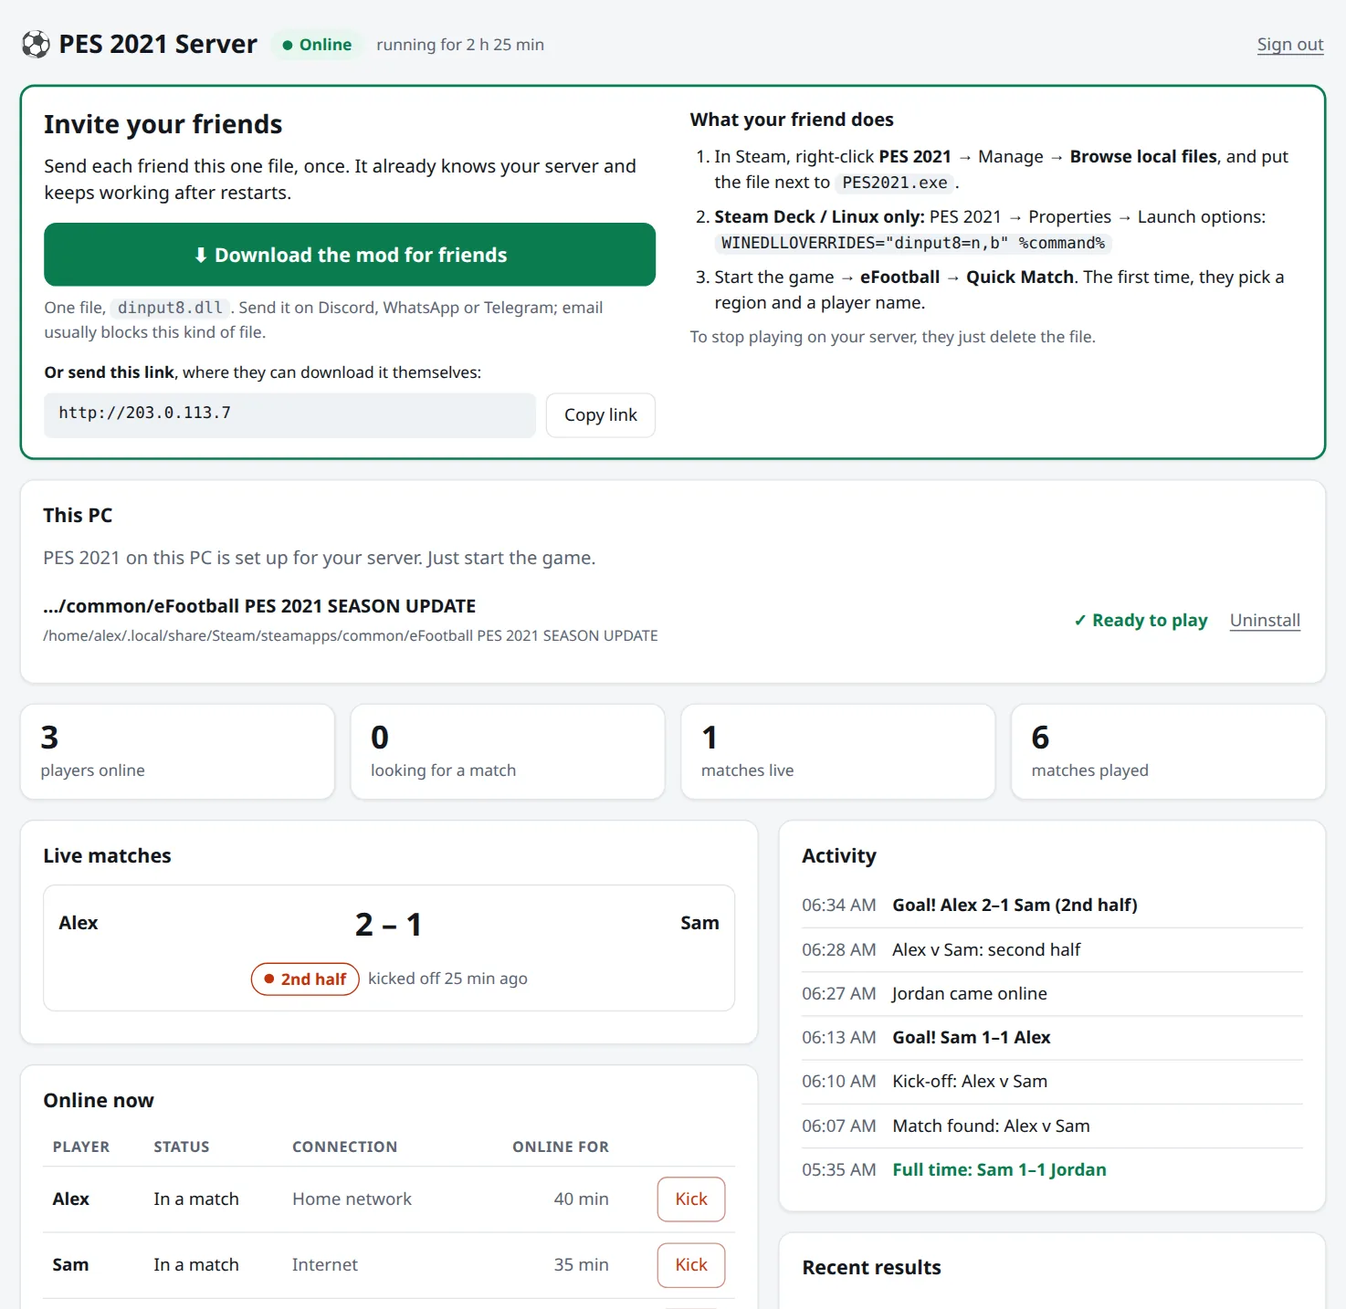
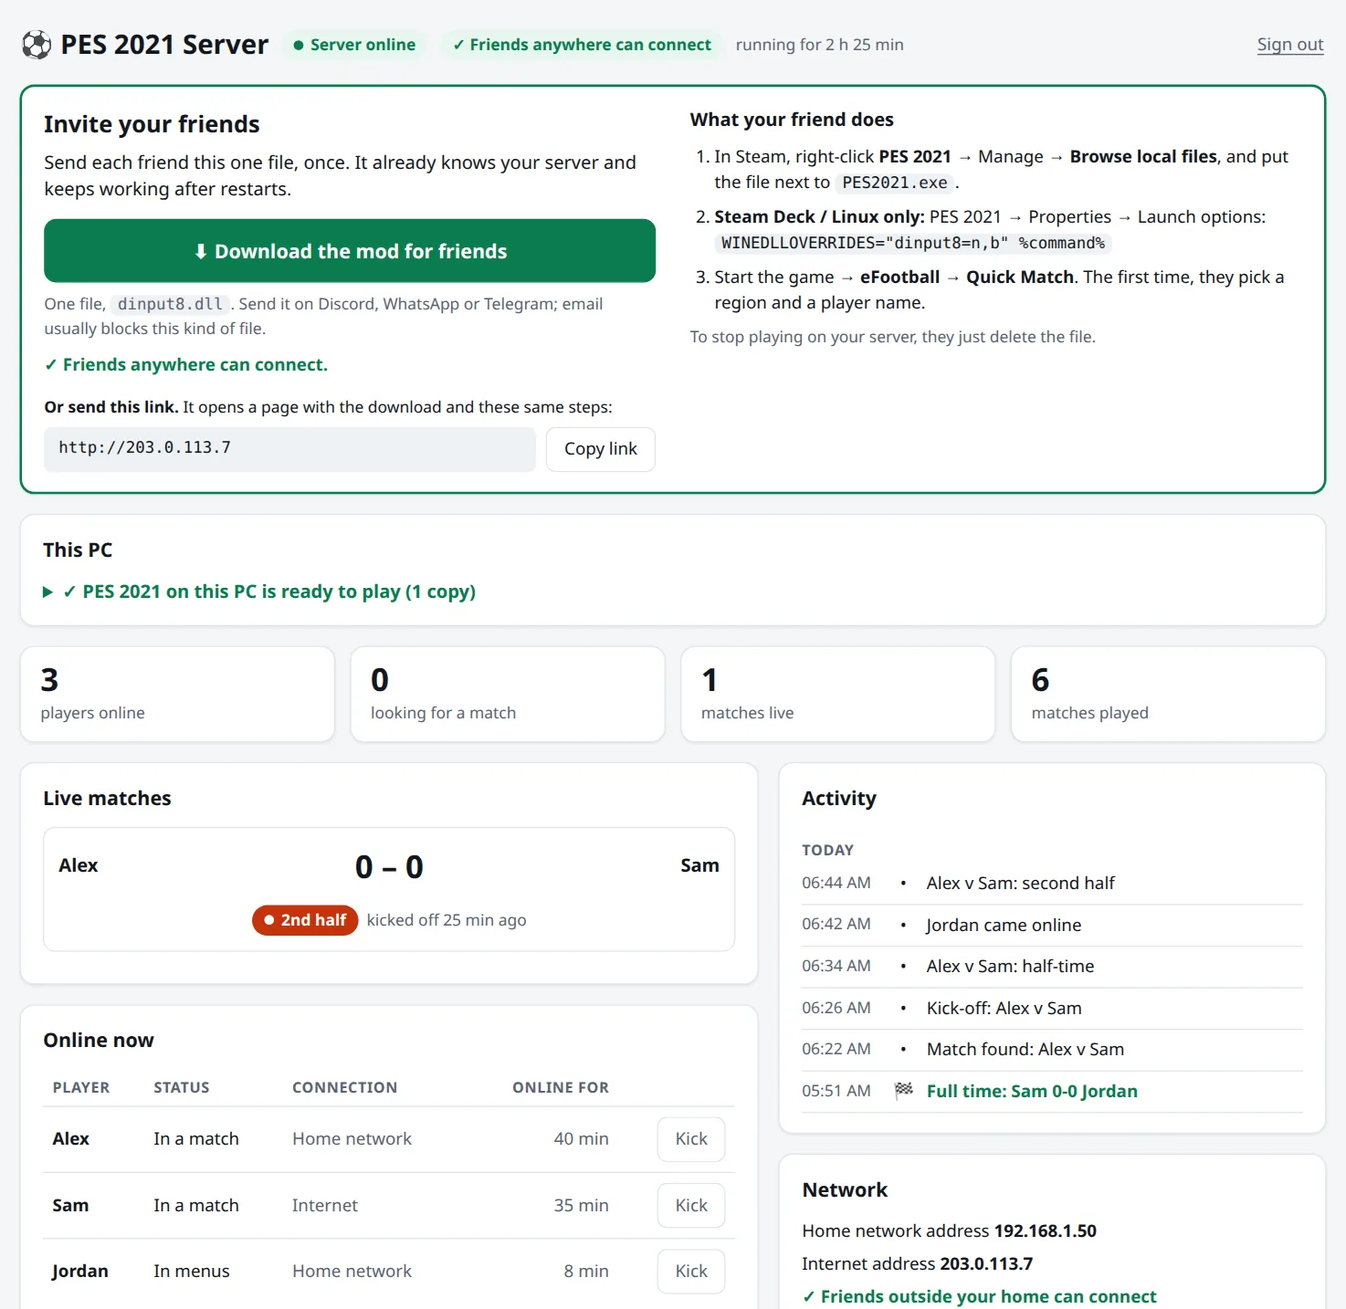
Website round 10: accuracy and onboarding fixes from review (8.3/10)
- Banner image and share preview: no 'free web link'; 'no admin rights for players'
- Admin screenshots without goals (goal tracking not yet seen in a real match)
- Cloud hosting: ADMIN_REMOTE=1 install line and the unencrypted-admin warning; installer
  details say the admin page is home-network only and what the server may write to
- Role links under the hero; send-the-link option; Steam Deck download tip; curl tip; Docker on
  Arch; Uninstall naming; honest chapter 10 test claims; technical page status card and diagram
- Menu fits at 320 px without cutting off; larger tap targets on the technical page

Claude-Session: https://claude.ai/code/session_01W5SLBoQcpZRfLZ5A6DyezJ

diff --git a/docs/index.html b/docs/index.html
@@ -66,7 +66,7 @@ code, pre { font-family: var(--mono); }
 .theme svg { width: 18px; height: 18px; }
 @media (max-width: 640px) { .logo span { display: none; } .nav ul { gap: 12px; } .nav ul a { font-size: 14px; } .nav .wrap { gap: 10px; } }
 @media (max-width: 460px) { .nav .gh { display: none; } .nav ul { gap: 9px; } .nav ul a { font-size: 13px; } }
-@media (max-width: 380px) { .nav ul { gap: 8px; overflow-x: auto; scrollbar-width: none; min-width: 0; } .nav ul::-webkit-scrollbar { display: none; } .logo { flex: none; } .nav .wrap { gap: 8px; padding: 0 14px; } }
+@media (max-width: 380px) { .logo { display: none; } .nav ul { gap: 9px; } .nav ul a { font-size: 12.5px; } .nav .wrap { gap: 8px; padding: 0 12px; } }
 
 /* hero */
 .hero { background: radial-gradient(1200px 500px at 80% -10%, rgba(60,207,142,.25), transparent 60%), linear-gradient(160deg, var(--pitch1), var(--pitch2)); color: #fff; position: relative; overflow: hidden; }
@@ -76,6 +76,9 @@ code, pre { font-family: var(--mono); }
 .hero h1 { font-size: clamp(38px, 6vw, 62px); line-height: 1.04; margin: 0 0 18px; letter-spacing: -.025em; }
 .hero p.lead { font-size: 20px; color: #d3ece0; margin: 0 0 26px; max-width: 34em; }
 .ctas { display: flex; flex-wrap: wrap; gap: 12px; }
+.roles { display: flex; flex-wrap: wrap; gap: 6px 20px; margin: 14px 0 0; font-size: 15px; }
+.roles a { color: #bfe0d1; font-weight: 600; }
+.roles a:hover { color: #fff; }
 .btn { display: inline-flex; align-items: center; gap: 8px; padding: 12px 20px; border-radius: 12px; font-weight: 700; text-decoration: none; font-size: 16px; border: 2px solid transparent; }
 .btn.primary { background: var(--accent); color: #04241a; }
 .btn.primary:hover { background: #63dea6; color: #04241a; }
@@ -255,7 +258,7 @@ details.q { border-bottom: 1px solid var(--line); padding: 4px 0; }
 details.q summary { cursor: pointer; font-weight: 700; font-size: 18px; padding: 14px 0; list-style: none; display: flex; justify-content: space-between; gap: 16px; }
 summary::-webkit-details-marker { display: none; }
 details.q summary::after, details.changes summary::after { content: "+"; color: var(--brand); font-size: 22px; line-height: 1; }
-details.changes summary { list-style: none; display: flex; justify-content: space-between; cursor: pointer; font-weight: 700; }
+details.changes summary { list-style: none; display: flex; justify-content: space-between; gap: 16px; cursor: pointer; font-weight: 700; }
 details[open] > summary::after { content: "–"; }
 details.q p, details.q ul, details.q ol { margin: 0 0 16px; color: var(--muted); max-width: 48em; }
 details.q .cmd { max-width: 48em; margin-bottom: 16px; }
@@ -295,13 +298,14 @@ footer a { color: var(--muted); }
 <header class="hero" id="top">
   <div class="wrap">
     <div>
-      <span class="eyebrow">Free · Open source (MIT) · No admin rights</span>
+      <span class="eyebrow">Free · Open source (MIT) · No admin rights for players</span>
       <h1>PES 2021 is back online.</h1>
       <p class="lead">Konami switched off the online servers for eFootball PES 2021, and every online mode went dark with them. This project brings online Quick Match back: one friend runs a small server, everyone else gets one small file, and you play real online matches again.</p>
       <div class="ctas">
         <a class="btn primary" href="#play">Start playing</a>
         <a class="btn ghost" href="#inside">How it works</a>
       </div>
+      <p class="roles"><a href="#host">I'm hosting →</a><a href="#join">A friend sent me a file →</a></p>
       <a class="pill-status" href="#status"><i aria-hidden="true"></i>Early access: proven on Linux · testers wanted for Windows, Steam Deck and two separate PCs</a>
       <p class="needs">You need: <b>PES 2021 for PC on Steam</b> (v1.01.00) for every player, and <b>one Linux PC or cheap server</b> to host (Windows/Mac hosting should work through Docker Desktop, untested).</p>
       <ul class="facts">
@@ -394,7 +398,7 @@ footer a { color: var(--muted); }
             <li><b>All on Windows, want it easy:</b> a small <a href="#faq-cloud">cloud server</a>, about $5 a month, about 10 minutes.</li>
             <li><b>All on Windows, want it free:</b> <a href="#faq-winhost">Docker Desktop</a> on one PC, about 20 minutes.</li>
           </ul>
-          <p class="small muted">Any 64-bit Linux works: your gaming PC, a laptop, a Raspberry Pi with 64-bit Raspberry Pi OS, or a cloud server. Ubuntu, Debian and Fedora need nothing else; on Arch, SteamOS or Bazzite, install Docker with your package manager first. Open a terminal, paste the command and press Enter.</p>
+          <p class="small muted">Any 64-bit Linux works: your gaming PC, a laptop, a Raspberry Pi with 64-bit Raspberry Pi OS, or a cloud server. Ubuntu, Debian and Fedora need nothing else (if the terminal says <code>curl: command not found</code>, run <code>sudo apt install curl</code> first); on Arch or Bazzite, install Docker with your package manager first and the installer starts it. A Steam Deck isn't a good host: its system is read-only. Open a terminal, paste the command and press Enter.</p>
           <p class="small muted">It asks for your password (sudo), installs Docker if it's missing, and when it's ready shows <b>your admin page</b> and <b>its password</b>. That's all you need.</p>
         </div>
         <div>
@@ -410,7 +414,8 @@ footer a { color: var(--muted); }
               <li>Installs Docker if it's missing, using Docker's official script from get.docker.com (it runs as administrator).</li>
               <li>Starts the server in a container that restarts after reboots until you stop it. It uses about 50 MB of memory.</li>
               <li>Opens 6 ports on your router (UPnP) so friends outside your home can reach you.</li>
-              <li>If PES 2021 is installed on this computer, lets the server see <b>only those game folders</b>, so the admin page can install the mod for you in one click.</li>
+              <li>If PES 2021 is installed on this computer, lets the server read and write <b>only those game folders</b> (and their Wine settings), so the admin page can install the mod for you in one click.</li>
+              <li>The admin page is plain HTTP and opens only from your home network (and Tailscale). On a cloud server you switch remote access on yourself, see <a href="#faq-cloud">cloud hosting</a>.</li>
               <li>Keeps players, results and a message log in a Docker volume. <a href="#faq-host">Stop or remove it</a> any time.</li>
             </ul>
           </details>
@@ -423,7 +428,7 @@ footer a { color: var(--muted); }
           <div class="step-num" aria-hidden="true">2</div>
           <h3>The host sends friends one file</h3>
           <p class="small muted">Open your admin page, sign in with the password, and click <b>Download the mod for friends</b>. You get one small file, <code>dinput8.dll</code>, made for your server.</p>
-          <p class="small muted">Send it to each friend on <b>Discord, WhatsApp or Telegram</b>. Email usually blocks this kind of file.</p>
+          <p class="small muted">Send it to each friend on <b>Discord, WhatsApp or Telegram</b>. Email usually blocks this kind of file. Or copy the link under the button (your server's address) and send that: it opens a page where friends download the file themselves.</p>
           <p class="small muted"><b>Playing on the same PC?</b> If the installer found PES 2021 on it, the admin page has a <b>This PC</b> card: close the game and click <b>Install mod</b>.</p>
         </div>
         <div>
@@ -455,7 +460,7 @@ footer a { color: var(--muted); }
           <h3>Friends drop it in and play</h3>
           <ol class="small how">
             <li>In Steam, right-click <b>PES 2021</b> → <b>Manage</b> → <b>Browse local files</b>, and put <code>dinput8.dll</code> in that folder, next to <code>PES2021.exe</code>.</li>
-            <li><b>Steam Deck / Linux only:</b> right-click PES 2021 → <b>Properties</b> → <b>Launch options</b>, and paste the line on the right.</li>
+            <li><b>Steam Deck / Linux only:</b> right-click PES 2021 → <b>Properties</b> → <b>Launch options</b>, and paste the launch-option line shown with this step. On a Steam Deck, switch to Desktop Mode first to download the file (for example from Discord in the browser).</li>
             <li>Start PES 2021. The first time, pick your region, accept the terms and choose a player name.</li>
             <li>Go to <b>eFootball → Quick Match</b>, pick a team and press <b>Go to Matchmaking</b>. When two players are searching, the server pairs them: press <b>Proceed</b>, then both press <b>Kick Off</b>.</li>
           </ol>
@@ -516,7 +521,7 @@ footer a { color: var(--muted); }
 
 <section id="help" class="alt">
   <div class="wrap">
-    <p class="kicker">Troubleshooting</p>
+    <p class="kicker">Help</p>
     <h2>Something went wrong?</h2>
     <p class="intro">Find what you see. For a friend's problem, the mod's log, <code>pes2021-online.log</code> in their game folder, usually says why.</p>
     <div class="card">
@@ -537,7 +542,7 @@ footer a { color: var(--muted); }
         </tbody>
       </table>
     </div>
-    <p class="note">Still stuck? <a href="https://github.com/MohamedAliRashad/pes2021-private-server/issues">Open an issue</a> with what you see, the friend's <code>pes2021-online.log</code>, and the output of <code>docker logs pesserver</code>.</p>
+    <p class="note">Still stuck? <a href="https://github.com/MohamedAliRashad/pes2021-private-server/issues">Open an issue</a> with what you see, the friend's <code>pes2021-online.log</code>, and the output of <code>sudo docker logs pesserver</code>.</p>
   </div>
 </section>
 
@@ -567,7 +572,7 @@ footer a { color: var(--muted); }
     </details>
     <details class="q" id="faq-trust">
       <summary>Should I trust a mod file my friend sends?</summary>
-      <p>Only from friends you trust, like any program. The file your host downloads from their own admin page is the official build with their server's details written in. It can only make your game talk to their server, and it can't be redirected elsewhere: a server that doesn't hold their secret key is refused.</p>
+      <p>Only from friends you trust, like any program. The safest copy is one you download yourself from your host's own link (their server's address), rather than a copy forwarded by someone else. The file their server hands out is the official build with their server's details written in. It can only make your game talk to their server, and it can't be redirected elsewhere: a server that doesn't hold their secret key is refused.</p>
       <p>The server stores your player name, Steam ID and match results, sees your IP address, and keeps a log of the game's messages on the host's disk. Like any peer-to-peer game, your opponent's PC connects straight to yours during a match, so it sees your IP address too.</p>
     </details>
     <details class="q" id="faq-undo">
@@ -598,13 +603,13 @@ footer a { color: var(--muted); }
         <li>Show the admin page and password again: <code>sudo docker logs pesserver</code></li>
         <li>Restart: <code>sudo docker restart pesserver</code> · Stop: <code>sudo docker stop pesserver</code> (this also closes the router ports it opened)</li>
         <li>Update to the latest version: run the install line again. Players, results and your server's identity are kept, so friends' files keep working.</li>
-        <li>Remove everything: <code>sudo docker rm -f pesserver; sudo docker volume rm pesserver-data; sudo docker rmi ghcr.io/mohamedalirashad/pes2021-private-server</code> (deletes players and results, and the server's identity, so old mod files stop working; Docker itself stays installed).</li>
+        <li>Remove everything: first click <b>Uninstall</b> on the admin page's This PC card (if you used it), then <code>sudo docker rm -f pesserver; sudo docker volume rm pesserver-data; sudo docker rmi ghcr.io/mohamedalirashad/pes2021-private-server</code> (deletes players and results, and the server's identity, so old mod files stop working; Docker itself stays installed).</li>
       </ul>
       <p>If your user is in the <code>docker</code> group you can leave out <code>sudo</code>.</p>
     </details>
     <details class="q" id="faq-thispc">
       <summary>How does "This PC" install the mod for me?</summary>
-      <p>When you run the install line, it looks for PES 2021 in your Steam libraries and in <code>~/Games</code>, and lets the server see only those game folders and their Wine settings. <b>Install mod</b> puts your server's <code>dinput8.dll</code> next to <code>PES2021.exe</code> and, on Linux, sets Wine to load it for PES 2021 only, so you don't need the launch option. Close the game first. It never replaces another mod's <code>dinput8.dll</code>, keeps a backup of Wine's settings, and <b>Remove</b> undoes it.</p>
+      <p>When you run the install line, it looks for PES 2021 in your Steam libraries and in <code>~/Games</code>, and lets the server see only those game folders and their Wine settings. <b>Install mod</b> puts your server's <code>dinput8.dll</code> next to <code>PES2021.exe</code> and, on Linux, sets Wine to load it for PES 2021 only, so you don't need the launch option. Close the game first. It never replaces another mod's <code>dinput8.dll</code>, keeps a backup of Wine's settings, and <b>Uninstall</b> undoes it.</p>
     </details>
     <details class="q" id="faq-cloud">
       <summary>How do I run it on a cloud server?</summary>
@@ -612,9 +617,11 @@ footer a { color: var(--muted); }
       <ol>
         <li>Create a small Linux server with any cloud provider. The cheapest size is plenty (1 CPU, 1 GB of memory), usually about $4–6 a month, and some providers have free tiers. Pick <b>Ubuntu 24.04</b> (64-bit); Intel/AMD and ARM both work.</li>
         <li>In the provider's firewall (often called "security group" or "firewall rules"), allow incoming <b>TCP 80, 443, 8080, 10000</b> and <b>UDP 3478, 7600</b> from anywhere.</li>
-        <li>Open the server's terminal (the provider's web console, or SSH), paste the install line from <a href="#host">step 1</a> and press Enter. In most web consoles you paste with <b>Ctrl+Shift+V</b> or right-click → Paste.</li>
+        <li>Open the server's terminal (the provider's web console, or SSH) and paste this version of the install line, which lets you open the admin page from your home over the internet. In most web consoles you paste with <b>Ctrl+Shift+V</b> or right-click → Paste.
+          <div class="cmd" style="margin-top:8px"><pre id="c-cloud">curl -fsSL https://raw.githubusercontent.com/MohamedAliRashad/pes2021-private-server/main/install.sh | ADMIN_REMOTE=1 sh</pre><button class="copy" data-copy="c-cloud" type="button">Copy</button></div>
+          The admin page isn't encrypted, so its password crosses the internet in the clear: keep the generated password, and don't sign in from public Wi-Fi.</li>
         <li>The banner may say "Router ports are closed": on a cloud server that's normal, because there's no home router. The ports you opened in step 2 are what count.</li>
-        <li>Open the admin page at the server's internet address (the banner shows it) and download the mod for your friends.</li>
+        <li>Open the admin page at the banner's "from anywhere" address and download the mod for your friends.</li>
       </ol>
       <p>The match itself still runs directly between the two players' PCs, so a cloud server doesn't fix "Failed to connect with opponent". It does keep login and matchmaking reachable for everyone.</p>
     </details>
@@ -637,7 +644,7 @@ footer a { color: var(--muted); }
     <h3 class="faqh">About the project</h3>
     <details class="q">
       <summary>Does it cost anything?</summary>
-      <p>No. The software and the admin page are free, and nothing depends on an outside service. The host just needs a computer that's on while you play.</p>
+      <p>No. The software and the admin page are free, with no accounts or paid services. The installer downloads from GitHub and Docker, and the server asks a free what-is-my-IP service for its public address. The host just needs a computer that's on while you play.</p>
     </details>
     <details class="q">
       <summary>Is this legal? Is it affiliated with Konami?</summary>
@@ -854,7 +861,7 @@ answer with a 16-byte key
         <p>The mod does the same two jobs from inside the game instead. PES 2021, like most PC games, loads a file named <code>dinput8.dll</code> from its own folder when it starts. Ours passes the game's controller requests straight on to Windows, and while the game runs it answers the game's "where is Konami?" with your friend's server, and accepts that server for the network test. Close the game and it's gone; delete the file and nothing is left.</p>
         <p>One more problem: home servers restart and their addresses change. So each server has a permanent <b>identity</b>, a secret key it never shares, and every copy of the mod carries the matching public half. Before connecting anywhere, the mod sends a random challenge and only accepts an address that answers with the right signature:</p>
         <div class="flow" role="img" aria-label="The mod sends a random challenge to an address; your friend's server signs it with its secret key; the mod checks the signature and connects. A different server can't sign it, so it is refused."><span>mod: "prove it: 7f3a…"</span><b class="a" aria-hidden="true">→</b><span>server signs it with its secret key</span><b class="a" aria-hidden="true">→</b><span class="k">signature matches: connect</span></div>
-        <p class="fun"><b>What it buys:</b> the file keeps working after restarts, a stranger at your friend's old address can't take over, and a forged "the server moved" note is ignored. We tested all three with the real game.</p>
+        <p class="fun"><b>What it buys:</b> the file keeps working after restarts, a stranger at your friend's old address can't take over (it can't sign the challenge), and a forged "the server moved" note is ignored. With the real game we tested the restart with a dead link and a wrong address, and the forged note; the stranger case relies on the same signature check.</p>
       </div>
     </article>
 

diff --git a/docs/protocol.html b/docs/protocol.html
@@ -91,7 +91,7 @@ svg .ar{stroke:var(--accent);stroke-width:1.8;fill:none}
 .bytes div{border:1px solid var(--line);border-radius:6px;padding:6px 8px;background:var(--panel);font-size:12px;text-align:center;min-width:64px}
 .bytes div small{display:block;color:var(--muted)}
 nav.toc{display:flex;flex-wrap:wrap;gap:6px 14px;font-size:14px;margin:14px 0 0}
-nav.toc a{color:var(--accent);text-decoration:none}
+nav.toc a{color:var(--accent);text-decoration:none;display:inline-block;padding:4px 0}
 .log li{margin:4px 0}
 .theme{flex:none;background:var(--panel);color:var(--ink);border:1px solid var(--line);cursor:pointer}
 code{overflow-wrap:anywhere} .note a, .panel a{color:var(--accent)}
@@ -132,10 +132,10 @@ code{overflow-wrap:anywhere} .note a, .panel a{color:var(--accent)}
   <div class="stat"><b>Payload</b><span class="t-ok">✔ MessagePack commands</span></div>
   <div class="stat"><b>Gate → Account → Menu login</b><span class="t-ok">✔ full chain, player created &amp; persisted</span></div>
   <div class="stat"><b>Session key</b><span class="t-ok">✔ base64 key in SET_CURRENTPLAYER, learned live</span></div>
-  <div class="stat"><b>NAT test (eFootball modes)</b><span class="t-ok">✔ STUN + GateInfo.php over trusted TLS</span></div>
+  <div class="stat"><b>NAT test (eFootball modes)</b><span class="t-ok">✔ STUN + GateInfo.php over HTTPS (the mod accepts the server's certificate for the 4 NTL names)</span></div>
   <div class="stat"><b>Matchmaking + P2P</b><span class="t-ok">✔ paired, peers connected, both in the online Match Menu</span></div>
   <div class="stat"><b>Online match</b><span class="t-ok">✔ kick-off, both halves, half-time, fouls/cards, clocks in sync</span></div>
-  <div class="stat"><b>Deployment</b><span class="t-ok">✔ one Docker container, private CA generated on first start</span></div>
+  <div class="stat"><b>Deployment</b><span class="t-ok">✔ one Docker container; server identity key created on first start</span></div>
 </div>
 
 <p class="totop"><a href="#contents">↑ Back to contents</a></p>
@@ -147,11 +147,11 @@ code{overflow-wrap:anywhere} .note a, .panel a{color:var(--accent)}
   <text x="120" y="164" text-anchor="middle" class="muted" font-size="13">Proton 10 · Fox Engine</text>
   <text x="120" y="184" text-anchor="middle" class="muted" font-size="13">fox::ncl NclMio</text>
   <text x="120" y="204" text-anchor="middle" class="muted" font-size="13">client 1.01.00</text>
-  <rect class="box" x="270" y="125" width="150" height="80" rx="10"/>
+  <rect class="box" x="245" y="125" width="200" height="80" rx="10"/>
   <text x="345" y="155" text-anchor="middle" font-weight="700">the mod</text>
-  <text x="345" y="175" text-anchor="middle" class="muted" font-size="12">dinput8.dll in the game</text>
+  <text x="345" y="175" text-anchor="middle" class="muted" font-size="12">dinput8.dll inside the game</text>
   <text x="345" y="192" text-anchor="middle" class="muted" font-size="12">6 Konami names → server</text>
-  <path class="ar" d="M220 165 H270"/>
+  <path class="ar" d="M220 165 H245"/>
   <rect class="hl" x="500" y="20" width="420" height="70" rx="10"/>
   <text x="520" y="48" font-weight="700">Gate  tcp/10000</text>
   <text x="520" y="70" class="muted" font-size="13">pes21-x64-gate.cs.konami.net · NclMio msgpack commands</text>
@@ -164,10 +164,10 @@ code{overflow-wrap:anywhere} .note a, .panel a{color:var(--accent)}
   <rect class="box" x="500" y="260" width="420" height="55" rx="10" stroke-dasharray="5 4"/>
   <text x="520" y="284" font-weight="700">Peer ↔ peer match traffic</text>
   <text x="520" y="302" class="muted" font-size="13">direct UDP between the two games · never touches the server</text>
-  <path class="ar" d="M420 150 C460 150 460 55 500 55"/>
-  <path class="ar" d="M420 160 H500"/>
-  <path class="ar" d="M420 172 C460 172 460 220 500 220"/>
-  <path class="ln" d="M420 185 C460 185 460 287 500 287" stroke-dasharray="5 4"/>
+  <path class="ar" d="M445 150 C475 150 470 55 500 55"/>
+  <path class="ar" d="M445 160 H500"/>
+  <path class="ar" d="M445 172 C475 172 470 220 500 220"/>
+  <path class="ln" d="M120 220 C120 290 330 287 500 287" stroke-dasharray="5 4"/>
 </svg>
 <p class="sub" style="margin:6px 0 0">Official servers are offline (NXDOMAIN). The DRM-wrapped exe is never patched; everything is redirected at the resolver.</p>
 </div>
